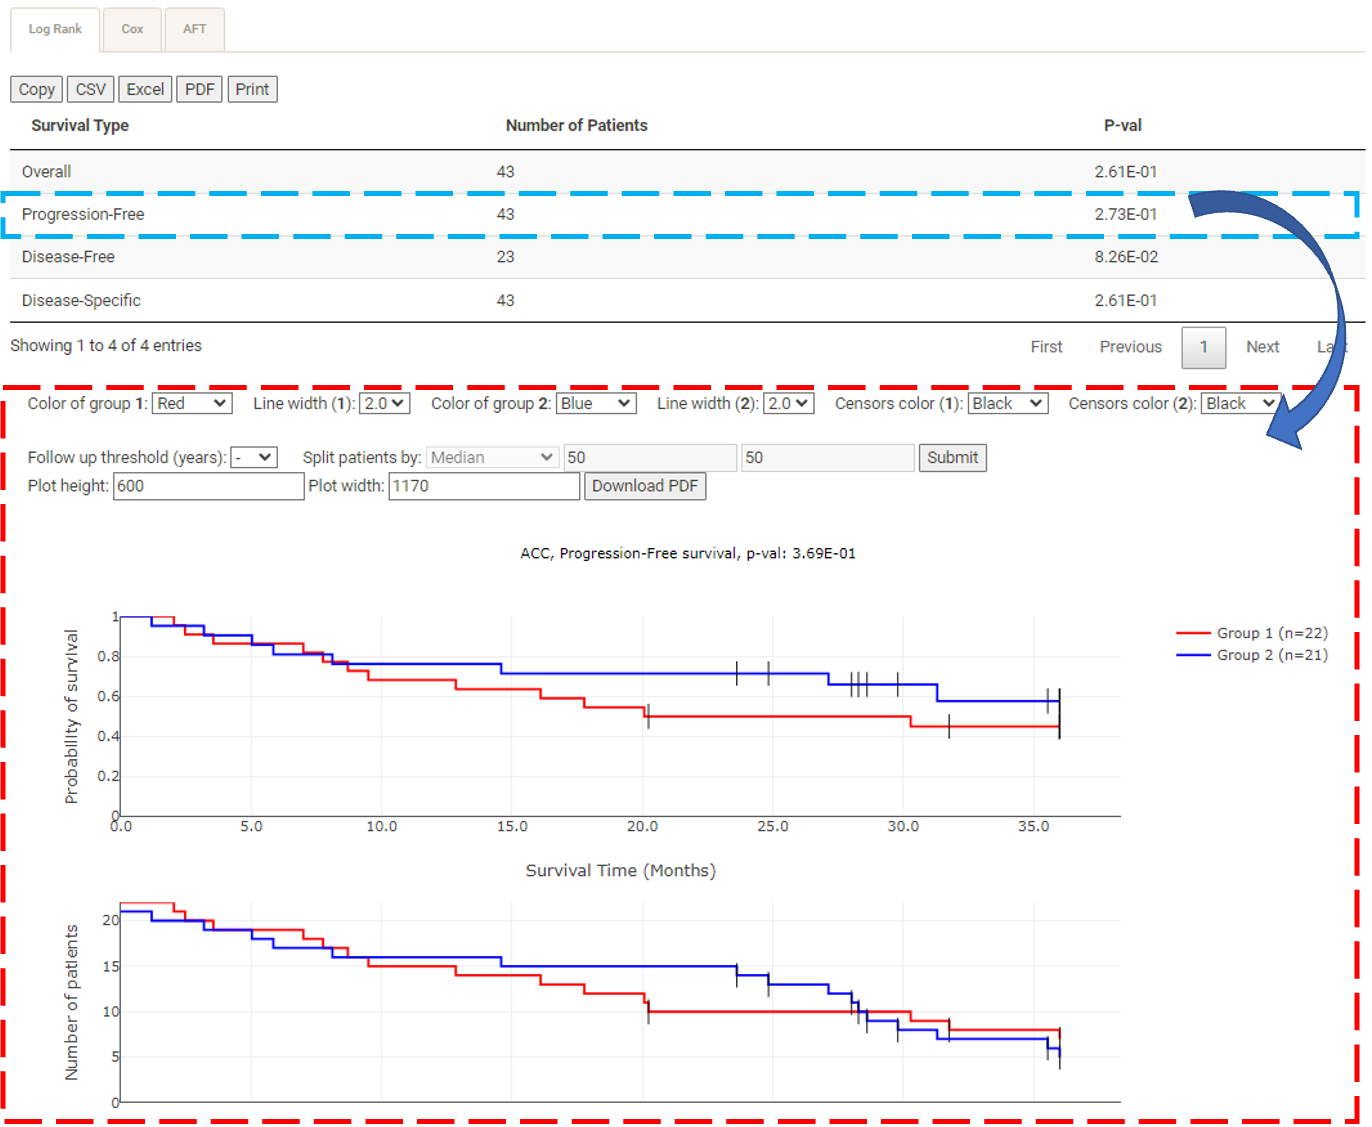
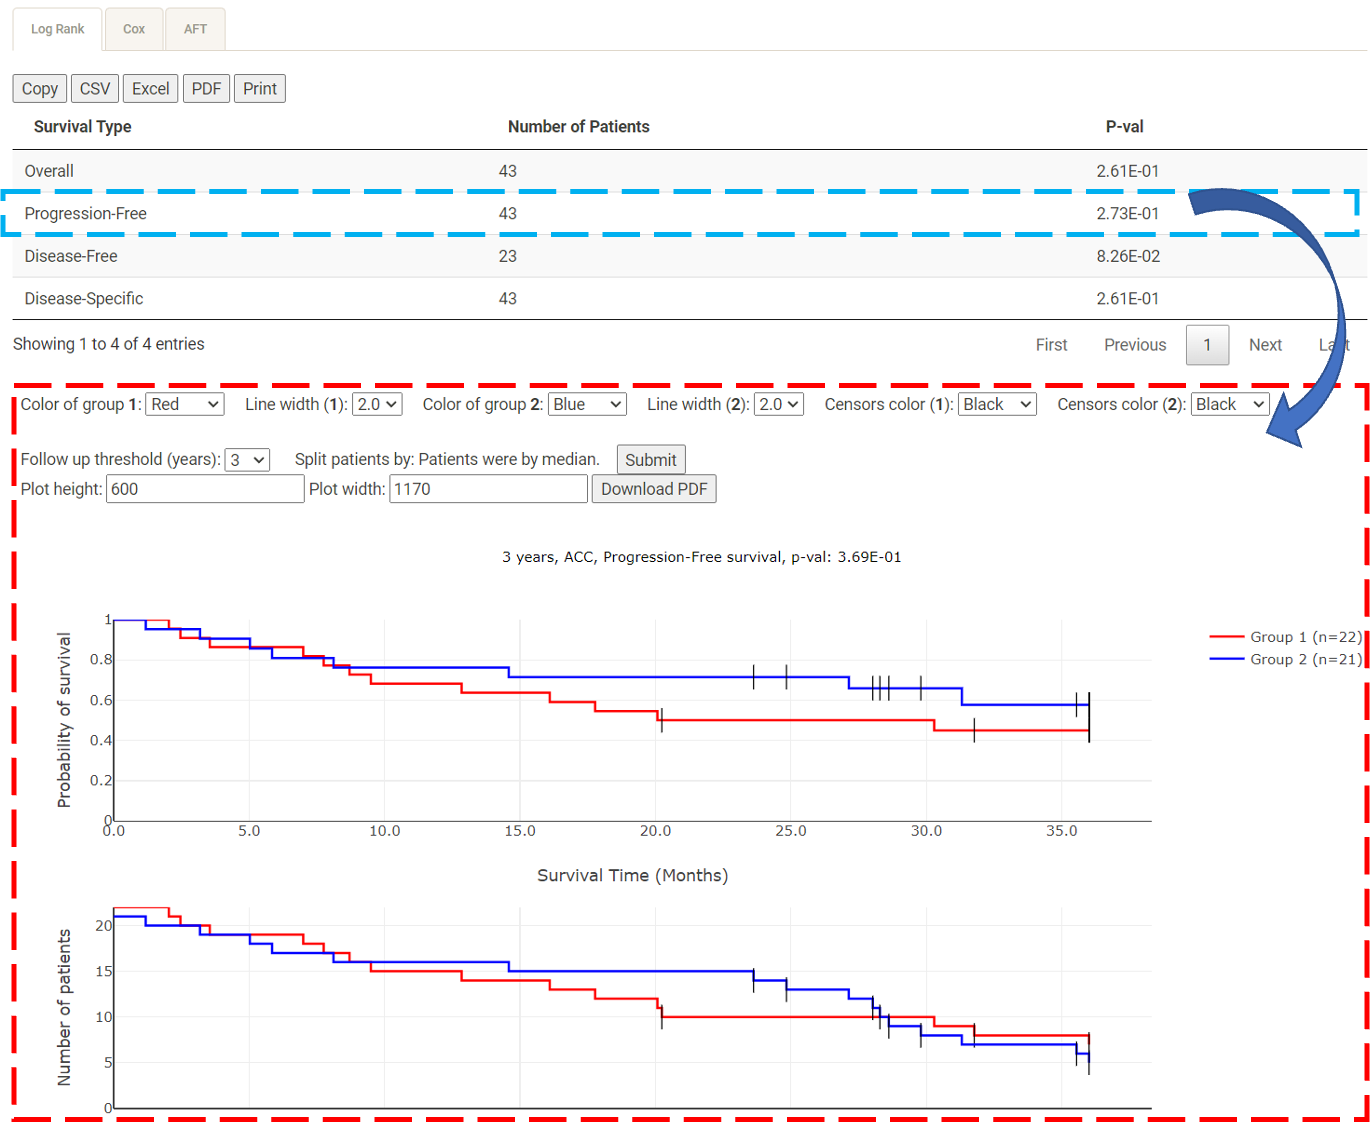
v1.0.0

diff --git a/python_nctu_cancer/static/tab2.js b/python_nctu_cancer/static/tab2.js
@@ -3,6 +3,13 @@ $(function () {
     $("label[name='group_1']").html("1");
     $("label[name='group_2']").html("2");
 
+    $("input[name='chgChartTime']").before('Patients were by median.&emsp;');
+    $(".chart-option-cutoff").hide();
+    $("#chart-HP").hide();
+    $("#chart-LP").hide();
+
+
+
     // disable dataTable's warning
     $.fn.dataTable.ext.errMode = 'none';
 
@@ -736,7 +743,6 @@ function downloadCoxTwoGene(mode, type, gene1, gene2, tab) {
 //     }
 // }
 
-$(".chart-option-cutoff").attr('disabled', true);
 
 function addChartDownloadButton($chart){
     var $download = '<div style="text-align:center; padding-bottom: 40px;"><a href="#" onclick="downloadTwoGene(\'' + MY_DATA.two_gene_options["mode"] + '\', \'' + MY_DATA.two_gene_options["type"] + '\', \'' + MY_DATA.two_gene_options["gene1"] + '\', \'' + MY_DATA.two_gene_options["gene2"] + '\', \'' + MY_DATA.two_gene_options["group1"] + '\', \'' + MY_DATA.two_gene_options["group2"] + '\')">Download clinical data</a></div>';

diff --git a/python_nctu_cancer/views.py b/python_nctu_cancer/views.py
@@ -1564,7 +1564,7 @@ class UpLoadSurvivalChartView(APIView):
             result["message"] = "A column with a continuous variable is expected.\nError: " + str(e)
         except Exception as e:
             result["status"] = "error"
-            result["message"] = "請確認上傳的資料是否正確與選擇正確的columns\n" + type(e).__name__  + ":" + str(e)
+            result["message"] = "Please confirm if the uploaded data is correct and select the appropriate columns.\n" + type(e).__name__  + ":" + str(e)
             
         return JsonResponse(result, safe=False)
 
@@ -1628,7 +1628,7 @@ class UpLoadSurvivalCoxView(APIView):
             
         except Exception as e:
             result["status"] = "error"
-            result["message"] = "請確認上傳的資料是否正確與選擇正確的columns\nError: " + str(e)
+            result["message"] = "Please confirm if the uploaded data is correct and select the appropriate columns.\nError: " + str(e)
         return JsonResponse(result, safe=False)
 
 from lifelines import LogNormalAFTFitter
@@ -1685,7 +1685,7 @@ class UpLoadSurvivalAftView(APIView):
             
         except Exception as e:
             result["status"] = "error"
-            result["message"] = "請確認上傳的資料是否正確與選擇正確的columns\nError: " + str(e)
+            result["message"] = "Please confirm if the uploaded data is correct and select the appropriate columns.\nError: " + str(e)
         return JsonResponse(result)
     
 class UpLoadGetColView(APIView):

diff --git a/python_nctu_cancer/Kmplotter.py b/python_nctu_cancer/Kmplotter.py
@@ -536,9 +536,9 @@ class Kmplotter:
             chart_data = self.drawkmplot(df, status_col, day_col, 'groups')
 
             if int(time) in [3, 5, 10]:
-                chart_data[0]['layout']["title"] = time + " years, survival, p-val: %e" % (float(p_val))
+                chart_data[0]['layout']["title"] = time + " years, survival, p-val: %.2E" % (float(p_val))
             else:
-                chart_data[0]['layout']["title"] = "p-val: %.e" % (float(p_val))
+                chart_data[0]['layout']["title"] = "p-val: %.2E" % (float(p_val))
             # self.fig(data1,export_layout)
 
             response['chart_data'] = chart_data
